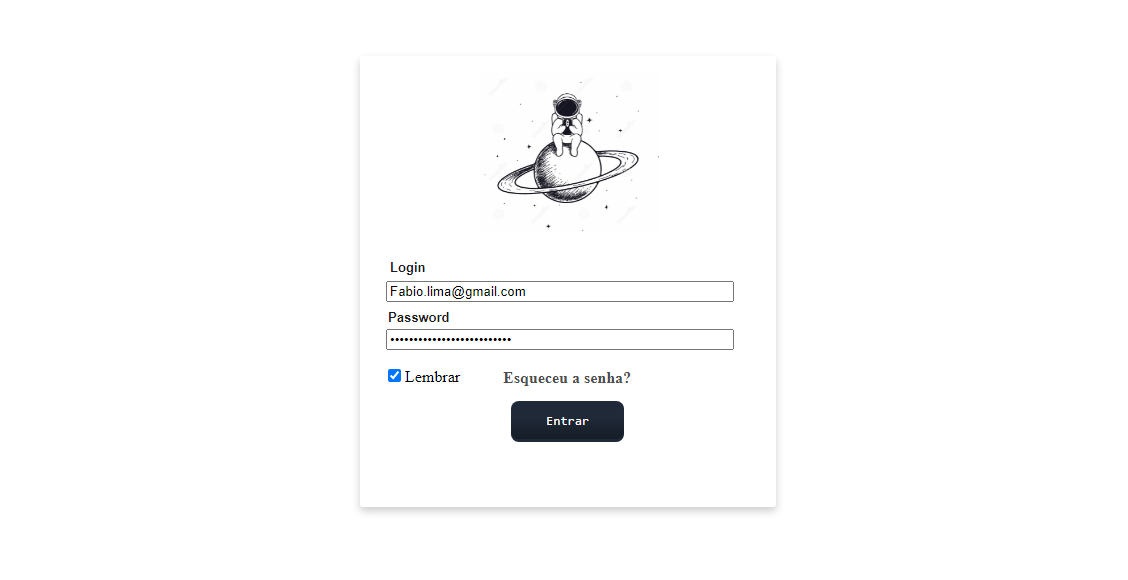
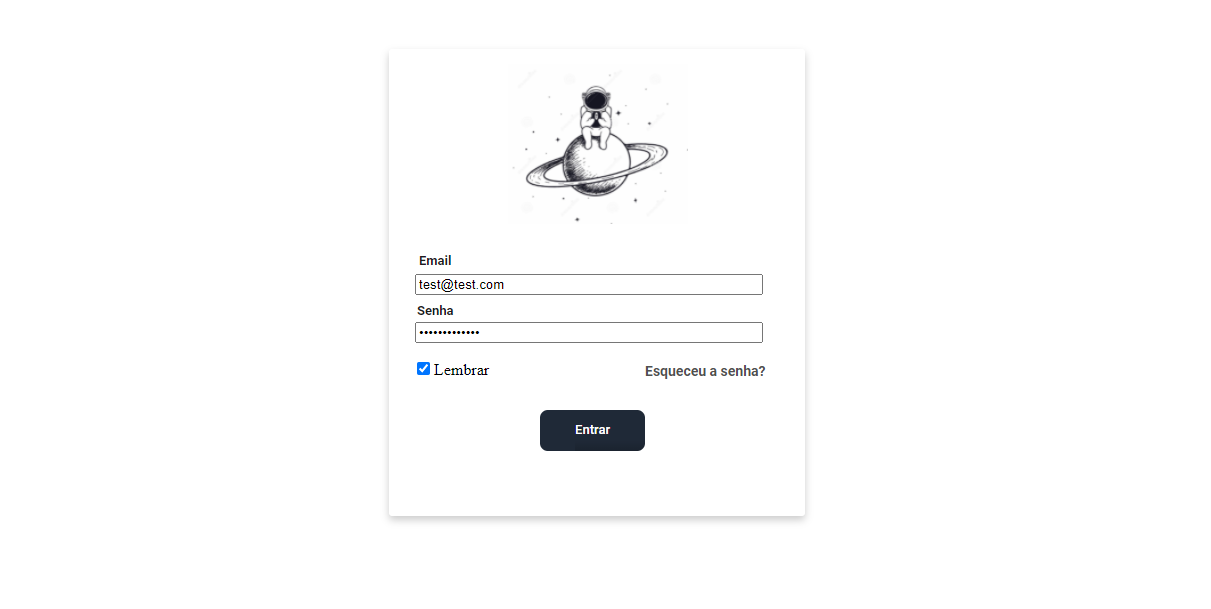
update view

Changed region(s): [[0.3413, 0.4034, 0.6516, 0.7759], [0.3103, 0.8379, 0.6826, 0.9], [0.4344, 0.1241, 0.5585, 0.3724]]

diff --git a/index.html b/index.html
@@ -6,30 +6,33 @@
     <title>Sign in</title>
     <link rel="stylesheet" href="reset.css">
     <link rel="stylesheet" href="style.css">
+    <link href="https://fonts.googleapis.com/css2?family=Roboto:wght@100;300;400;500;700&display=swap" rel="stylesheet">
 
 </head>
 
 <body>
 
     <div class="container">
-        <div class="logoSpace">
-            <h1><img src="astroSpace.jpg" alt="logo-login"></h1>
-        </div>
+        <nav class="logoSpace">
+            <h1><img src="./image/astroSpace.jpg" alt="logo-login"></h1>
+        </nav>
         <br />
         <section class="box">
-            <label class="login">Login</label>
-            <input class="inputs" type=”text” />
-            <label class="password">Password</label>
+            <label class="login">Email</label>
+            <input class="inputs" type="email" />
+            <label class="password">Senha</label>
             <input class="inputs" type="password" />
             <div class="containerTwo">
-                <input id="toRemember" type="checkbox"> Lembrar</input>
+                <input class="toRemember" type="checkbox"> Lembrar</input>
                 <p class="redefinePassword"><a href="index.html">Esqueceu a senha?</a></p>
             </div>
-            <button>
-                <span class="transition"></span>
-                <span class="gradient"></span>
-                <span class="label">Entrar</span>
-            </button>
+            <div>
+                <button>
+                    <span class="transition"></span>
+                    <span class="gradient"></span>
+                    <span class="label">Entrar</span>
+                </button>
+            </div>
         </section>
     </div>
 </body>

diff --git a/style.css b/style.css
@@ -26,6 +26,7 @@
   position: relative;
   margin: auto 9;
   right: 122px;
+  font-family: 'Roboto', sans-serif;
 }
 
 .password {
@@ -37,6 +38,7 @@
   position: relative;
   top: 2px;
   left: 20px;
+  font-family: 'Roboto', sans-serif;
 }
 
 .inputs {
@@ -51,8 +53,8 @@
   display: inline;
 }
 
-#toRemember {
-  margin: 14px 0 0 0;
+.toRemember {
+  margin: 14px 0 auto;
 }
 
 .redefinePassword a {
@@ -63,7 +65,9 @@
   position: relative;
   margin: 40px 110px;
   top: -15px;
-  padding: 0 25px;
+  left: 135px;
+  font-family: 'Roboto', Arial;
+  font-size: 14px;
 }
 .logoSpace h1 img {
   max-width: 180px;
@@ -88,8 +92,6 @@ button {
   position: absolute;
   width: 100%;
   height: 100%;
-  left: 0;
-  top: 0;
   border-radius: 0.6em;
   margin-top: -0.25em;
   background-image: linear-gradient(rgba(0, 0, 0, 0), rgba(0, 0, 0, 0), rgba(0, 0, 0, 0.3));
@@ -98,12 +100,14 @@ button {
  .label {
   position: relative;
   top: -1px;
+  font-size: 13px;
+  font-family: 'Roboto', sans-serif;
  }
  
  .transition {
   transition-timing-function: cubic-bezier(0, 0, 0.2, 1);
   transition-duration: 500ms;
-  background-color: rgba(16, 185, 129, 0.6);
+  background-color: #00c9b7;
   border-radius: 9999px;
   width: 0;
   height: 0;
